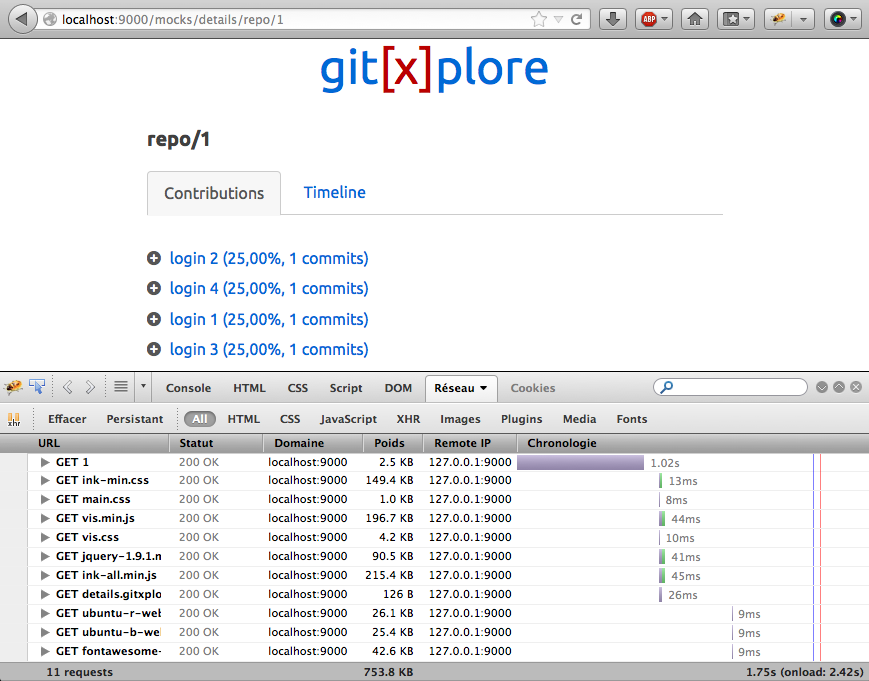
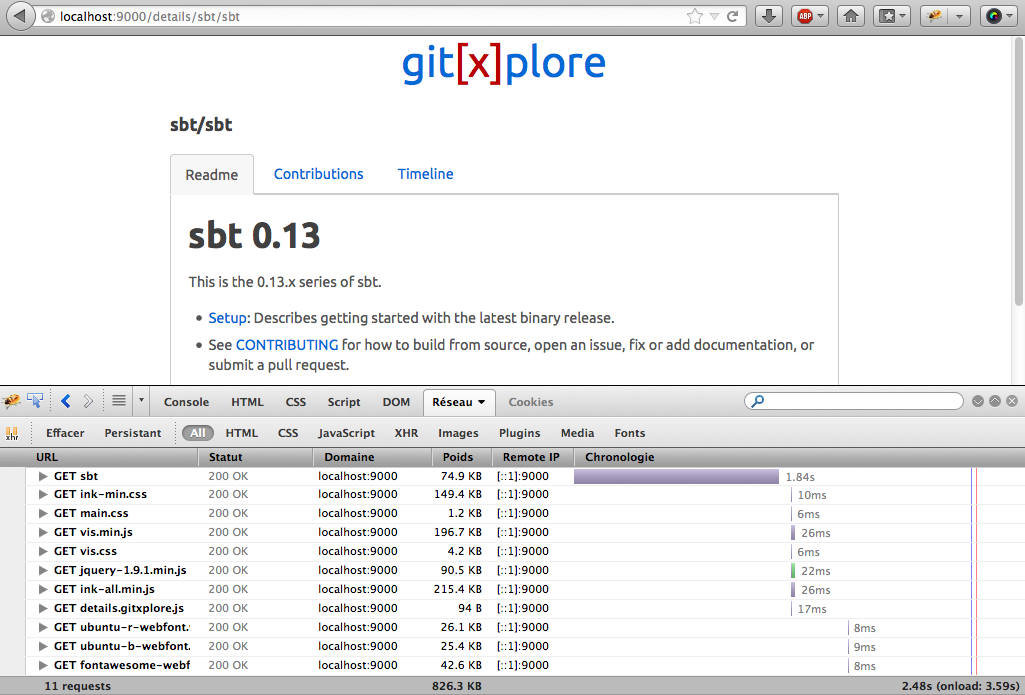
updating Readme.md and screenshots

Changed region(s): [[0.0, 0.1542, 1.0, 1.0], [0.0, 0.0, 1.0, 0.4626]]

diff --git a/README.md b/README.md
@@ -1,14 +1,14 @@
 # git[x]plore
 
-In the repository details page we have two modules : **Contributions** which is a tree of the last 100 commits and **Timeline** which is a representation of these 100 commits on a timeline.
+In the repository details page we have three modules : **Readme** which displays the readme file if exists, **Contributions** which is a tree of the last 100 commits, and **Timeline** which is a representation of these 100 commits on a timeline.
+
+The **Readme** module calls a github service once, the **Contributions** and **Timeline** modules call together the same github service once. So we have in total two github service calls.
 
 In this branch I implemented this "details" service in a way that it will start loading the page and these modules as soon as one of them is ready, so it will not wait until all the data is ready to start sending it to the client.
 
 It's basically an implementation of Yevgeniy Brikman [@brikis98](https://twitter.com/brikis98) presentation at ping-conf 2014 [Building composable, streaming, testable Play apps](http://www.ping-conf.com/#yevgeniybrikman). Check it out for more details.
 
 ## Screenshots
-
-To simulate a heavy calculation I just created a clone of the ```Details``` controller in ```app/mocks/DetailsMock.scala``` and delayed the response of the Contributions module by one second.
 
 **Initial**: Waiting 1 second until the data is ready and starts streaming to the client, then the browser build the Dom, then it starts downloading requested files (css, js, fonts), and finally rendering the page.
 
